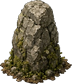
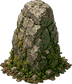
Keep Crosshaven moss on the ruin walls only.
The field, cliffs, and floor seal stay bare dirt and stone. The board already paints these unprefixed sheets in game.

diff --git a/art/tilesets/original/slice_crosshaven_punch.py b/art/tilesets/original/slice_crosshaven_punch.py
@@ -266,7 +266,55 @@ def main() -> None:
 
     _sync_tsx()
     _patch_atlas(records)
+    _accents()
     print(f"sliced {len(records)} Crosshaven earth files")
+
+
+def _accents() -> None:
+    """Moss sits in the ruin walls only. The field and the floor seal stay bare."""
+    _moss_on_ruin_walls(TILES / "prop_ruins.png")
+    _clear_seal_moss(TILES / "prop_floor_seal.png")
+
+
+def _moss_on_ruin_walls(path: Path) -> None:
+    arr = np.asarray(Image.open(path).convert("RGBA")).copy()
+    height, width = arr.shape[:2]
+    rgb = arr[:, :, :3].astype(np.float32)
+    opaque = arr[:, :, 3] > 40
+    ys = np.where(opaque)[0]
+    if len(ys) == 0:
+        raise SystemExit(f"{path.name} has no pixels")
+    y0 = int(ys.min())
+    span = max(1, int(ys.max()) - y0)
+    rows = np.arange(height)[:, None]
+    cap = opaque & ((rows - y0) < span * 0.22)
+    wall = opaque & ~cap
+    lum = rgb.mean(2)
+    thr = float(np.percentile(lum[wall], 55))
+    face = wall & (lum <= thr)
+    yy, xx = np.indices((height, width))
+    moss = face & (((xx * 17 + yy * 31) % 13) < 4)
+    rgb[moss, 0] *= 0.72
+    rgb[moss, 1] = np.clip(rgb[moss, 1] * 0.92 + 34.0, 0, 255)
+    rgb[moss, 2] *= 0.64
+    arr[:, :, :3] = np.clip(rgb, 0, 255).astype(np.uint8)
+    Image.fromarray(arr).save(path)
+    covered = float(moss.sum()) / float(max(int(opaque.sum()), 1))
+    print(f"ruin wall moss {covered:.3f}")
+    if not 0.08 <= covered <= 0.20:
+        raise SystemExit(f"ruin moss coverage {covered:.3f} is outside the wall accent")
+
+
+def _clear_seal_moss(path: Path) -> None:
+    if not path.is_file():
+        return
+    arr = np.asarray(Image.open(path).convert("RGBA")).copy()
+    rgb = arr[:, :, :3].astype(np.float32)
+    green = (arr[:, :, 3] > 20) & (rgb[:, :, 1] > rgb[:, :, 0])
+    rgb[:, :, 1] = np.where(green, rgb[:, :, 0] * 0.96, rgb[:, :, 1])
+    arr[:, :, :3] = np.clip(rgb, 0, 255).astype(np.uint8)
+    Image.fromarray(arr).save(path)
+    print(f"floor seal moss pixels cleared {int(green.sum())}")
 
 
 if __name__ == "__main__":

diff --git a/art/tilesets/original/THEMES.md b/art/tilesets/original/THEMES.md
@@ -6,7 +6,7 @@ Crosshaven ground and cliffs are slices of the earth punch (`crosshaven_ground_p
 
 | Arena | Pack | Files | What you see |
 | --- | --- | --- | --- |
-| Crosshaven | earth | `ground.png`, `mud.png`, `water.png`, `ground_e1.png`, `ground_e2.png` | Dirt and stone, lighter mud, water, earth cliffs, farm props. Moss and roots are accents, not a lawn. |
+| Crosshaven | earth | `ground.png`, `mud.png`, `water.png`, `ground_e1.png`, `ground_e2.png` | Dirt and stone, lighter mud, water, bare earth cliffs. Moss is only on the ruin walls. No lawn. |
 | Brinewake | coast | `brine_*` | Cobble and stone, deep water, stone cliffs, rocks, log |
 | Slagcrown | lava | `slag_*` | Cracked earth, lava, dark rock, scorched cliffs, volcanic rock props |
 | Windmere | ice | `wind_*` | Snow and bare ice, deep water, ice cliffs, ice crystals. Source `pending/ice/stasium_tileset_ice.png` |
@@ -16,7 +16,7 @@ Cell variety is extra `*_vN.png` siblings of the primary file. The primary name 
 
 Windmere and Stormspire props that share a name with another arena (`spark`, `rubble`, `rock_pillar`, `floor_seal`) are `wind_prop_*.png` and `storm_prop_*.png`. The board tries the dress file first.
 
-Crosshaven’s dirt, stone cliffs, and the props that arena paints (`ruins`, `well`, `hay`, `fence`, `rubble`, `rock_pillar`) come from the earth punch. `slice_crosshaven_punch.py` writes those unprefixed files. Water and the lighter mud stay on `original-tileset-b.jpg` so those tags still read apart from the dirt. The floor seal stays the original stone mark.
+Crosshaven’s dirt, stone cliffs, and the props that arena paints (`ruins`, `well`, `hay`, `fence`, `rubble`, `rock_pillar`) come from the earth punch. `slice_crosshaven_punch.py` writes those unprefixed files, then paints moss into the ruin walls only and clears the green cast off the floor seal. Water and the lighter mud stay on `original-tileset-b.jpg` so those tags still read apart from the dirt. The floor seal stays a bare stone mark.
 
 Slagcrown cliffs are the bare dirt/rock walls on `original-tileset-b.jpg`, not a grass-capped stone block. Mossy forest props (`basalt_pillar`, `ash_rock`, `rubble`) are `slag_prop_*.png` from the bare volcanic rock cells on that same sheet. `floor_seal` and `steam_vent` stay on the shared sheets. `rock_pillar` is the earth-punch column, which Brinewake and Slagcrown also use when they have no dress file of their own. Brinewake’s ruins, fence, and rubble use those same shared files.
 

diff --git a/docs/ship_log.md b/docs/ship_log.md
@@ -4,11 +4,11 @@ Durable record of feel passes on the mobile track. Kit numbers in here are remin
 
 ## 2026-09-26 — Crosshaven earth punch
 
-Soft lock: tierra + naturaleza. Crosshaven ground and cliffs are the dirt and stone punch, on the unprefixed dress (`ground.png`, `ground_e1.png`, `ground_e2.png`). Moss and roots stay accents. The arena grade is warm earth, so it does not wash that dirt into a lawn. Ruins, the well, hay, the fence, rubble, and the rock pillar on those same paths come from the props punch. Water and the lighter mud stay the original sheet so those tags still read. The floor seal stays the stone mark.
+Soft lock: tierra + naturaleza. Crosshaven ground and cliffs are the dirt and stone punch, on the unprefixed dress (`ground.png`, `ground_e1.png`, `ground_e2.png`). The board paints those files in game. Moss is only on the ruin walls. The field, the cliffs, and the floor seal stay bare, so there is no lawn. The arena grade is warm earth. Ruins, the well, hay, the fence, rubble, and the rock pillar on those same paths come from the props punch. Water and the lighter mud stay the original sheet so those tags still read.
 
 Phone tap diamonds, zoom, and planted walks are unchanged. Tags, geometry, and Locked kit numbers are unchanged. Ambush stays 4 AP / 0 MP / 22 FLEX.
 
-Headless Godot 4.7.2, 0 failed: Koliseo maps 332, combat 5182.
+Headless Godot 4.7.2, 0 failed: Koliseo maps 340, combat 5182.
 
 | Arena | Pack | Atlas |
 | --- | --- | --- |
